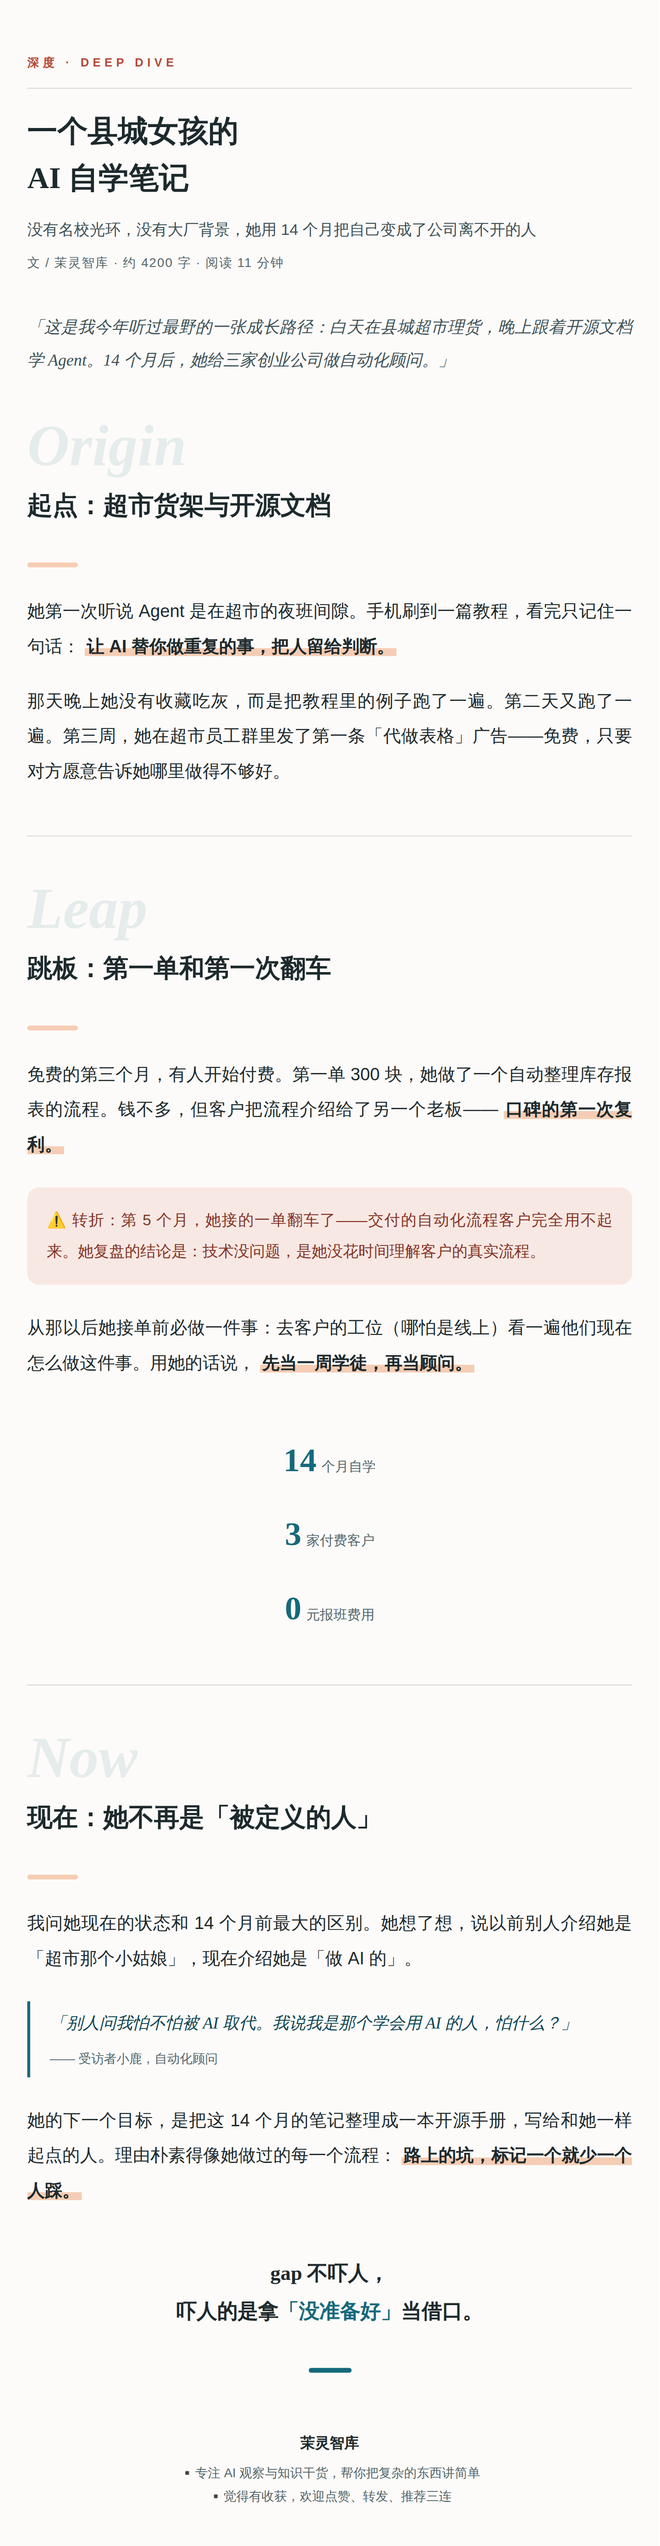
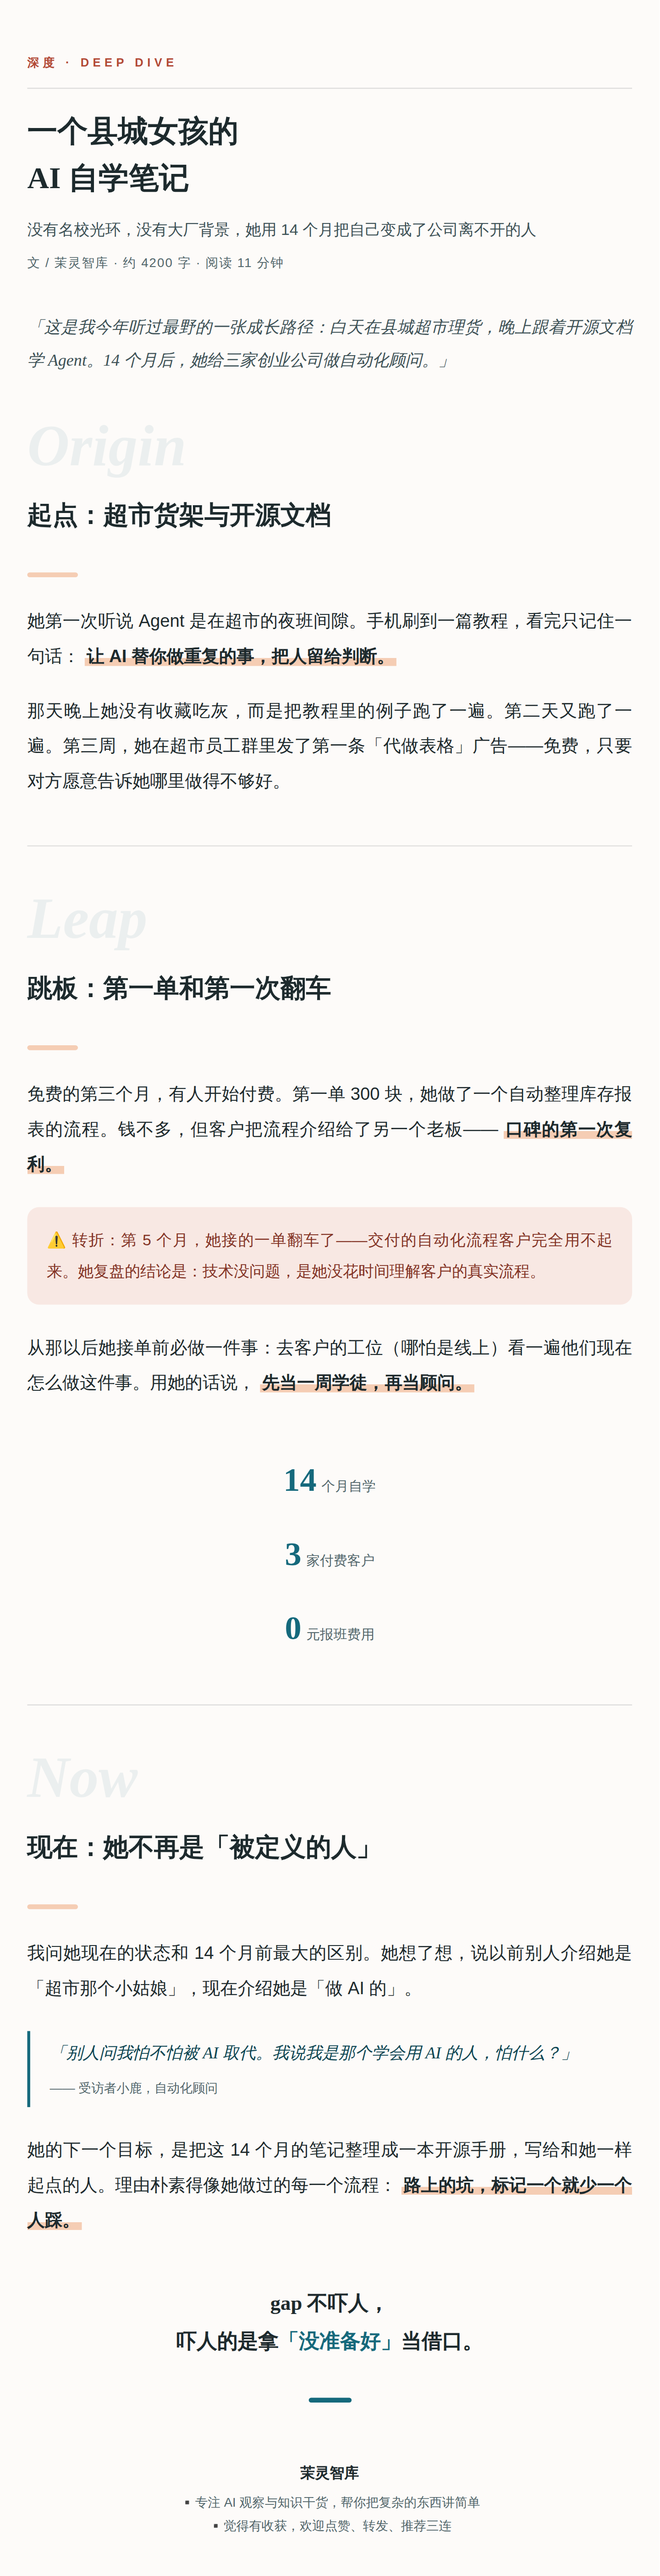
style: 预览页预览区加渐隐遮罩；杂志主题水印间距与透明度微调

diff --git a/docs/gallery/index.html b/docs/gallery/index.html
@@ -39,6 +39,8 @@
   .new{display:inline-block;font-size:10px;padding:1px 8px;border-radius:10px;background:#F8E7EC;color:#B54070;font-weight:700;margin-left:8px;letter-spacing:1px}
   .tmeta{margin-left:auto;font-size:11px;color:var(--ink-3);font-family:monospace}
   iframe{width:100%;height:640px;border:0;background:#fff}
+  .thumb{position:relative}
+  .thumb:after{content:"";position:absolute;left:0;right:0;bottom:0;height:70px;background:linear-gradient(transparent,#FFF 92%);pointer-events:none}
   .card footer{padding:11px 18px 13px;font-size:13px;color:var(--ink-2);line-height:1.7;border-top:1px solid var(--line);background:#FDFBF7}
 
   footer.page{max-width:1240px;margin:0 auto;padding:14px 28px 56px;color:var(--ink-3);font-size:13px;text-align:center;line-height:2}
@@ -66,7 +68,7 @@
       <span class="tname">摸鱼绿</span>
       <span class="tmeta">moyu-green</span>
     </div>
-    <iframe src="./moyu-green.html" loading="lazy" title="摸鱼绿"></iframe>
+    <section class="thumb"><iframe src="./moyu-green.html" loading="lazy" title="摸鱼绿"></iframe></section>
     <footer>杂志卡片式，教程、测评、清单通用默认款。在线预览：<a href="https://88lin.github.io/gzh-design-skill/docs/gallery/moyu-green.html" target="_blank">打开 ↗</a></footer>
   </section>
 
@@ -76,7 +78,7 @@
       <span class="tname">红白色系</span>
       <span class="tmeta">red-white</span>
     </div>
-    <iframe src="./red-white.html" loading="lazy" title="红白色系"></iframe>
+    <section class="thumb"><iframe src="./red-white.html" loading="lazy" title="红白色系"></iframe></section>
     <footer>经典编辑风，深度分析与观点话题。在线预览：<a href="https://88lin.github.io/gzh-design-skill/docs/gallery/red-white.html" target="_blank">打开 ↗</a></footer>
   </section>
 
@@ -86,7 +88,7 @@
       <span class="tname">石墨极简风</span>
       <span class="tmeta">graphite-minimal</span>
     </div>
-    <iframe src="./graphite-minimal.html" loading="lazy" title="石墨极简风"></iframe>
+    <section class="thumb"><iframe src="./graphite-minimal.html" loading="lazy" title="石墨极简风"></iframe></section>
     <footer>全灰阶极简，设计评论与专业观点。在线预览：<a href="https://88lin.github.io/gzh-design-skill/docs/gallery/graphite-minimal.html" target="_blank">打开 ↗</a></footer>
   </section>
 
@@ -96,7 +98,7 @@
       <span class="tname">留白禅意风</span>
       <span class="tmeta">zen-whitespace</span>
     </div>
-    <iframe src="./zen-whitespace.html" loading="lazy" title="留白禅意风"></iframe>
+    <section class="thumb"><iframe src="./zen-whitespace.html" loading="lazy" title="留白禅意风"></iframe></section>
     <footer>呼吸感最强，随笔与慢生活。在线预览：<a href="https://88lin.github.io/gzh-design-skill/docs/gallery/zen-whitespace.html" target="_blank">打开 ↗</a></footer>
   </section>
 
@@ -106,7 +108,7 @@
       <span class="tname">摸鱼票据风</span>
       <span class="tmeta">moyu-ticket</span>
     </div>
-    <iframe src="./moyu-ticket.html" loading="lazy" title="摸鱼票据风"></iframe>
+    <section class="thumb"><iframe src="./moyu-ticket.html" loading="lazy" title="摸鱼票据风"></iframe></section>
     <footer>票据门票隐喻，测评与创意评测。在线预览：<a href="https://88lin.github.io/gzh-design-skill/docs/gallery/moyu-ticket.html" target="_blank">打开 ↗</a></footer>
   </section>
 
@@ -116,7 +118,7 @@
       <span class="tname">橄榄手记</span>
       <span class="tmeta">olive-journal</span>
     </div>
-    <iframe src="./olive-journal.html" loading="lazy" title="橄榄手记"></iframe>
+    <section class="thumb"><iframe src="./olive-journal.html" loading="lazy" title="橄榄手记"></iframe></section>
     <footer>编辑部内刊质感，系统说明文档。在线预览：<a href="https://88lin.github.io/gzh-design-skill/docs/gallery/olive-journal.html" target="_blank">打开 ↗</a></footer>
   </section>
 
@@ -126,7 +128,7 @@
       <span class="tname">克莱因蓝艺术展册</span>
       <span class="tmeta">klein-blue</span>
     </div>
-    <iframe src="./klein-blue.html" loading="lazy" title="克莱因蓝"></iframe>
+    <section class="thumb"><iframe src="./klein-blue.html" loading="lazy" title="克莱因蓝"></iframe></section>
     <footer>高纯度蓝色锚点，艺术评论与品牌叙事。在线预览：<a href="https://88lin.github.io/gzh-design-skill/docs/gallery/klein-blue.html" target="_blank">打开 ↗</a></footer>
   </section>
 
@@ -136,7 +138,7 @@
       <span class="tname">科技钴蓝</span>
       <span class="tmeta">tech-cobalt</span>
     </div>
-    <iframe src="./tech-cobalt.html" loading="lazy" title="科技钴蓝"></iframe>
+    <section class="thumb"><iframe src="./tech-cobalt.html" loading="lazy" title="科技钴蓝"></iframe></section>
     <footer>冷静清晰的工具说明与工作流指南。在线预览：<a href="https://88lin.github.io/gzh-design-skill/docs/gallery/tech-cobalt.html" target="_blank">打开 ↗</a></footer>
   </section>
 
@@ -146,7 +148,7 @@
       <span class="tname serif">奶咖信纸</span><span class="new">NEW</span>
       <span class="tmeta">letter</span>
     </div>
-    <iframe src="./letter.html" loading="lazy" title="奶咖信纸"></iframe>
+    <section class="thumb"><iframe src="./letter.html" loading="lazy" title="奶咖信纸"></iframe></section>
     <footer>奶白信纸底 + 三色装饰条，叙事长文与方法论，无卡片堆砌的一封长信。在线预览：<a href="https://88lin.github.io/gzh-design-skill/docs/gallery/letter.html" target="_blank">打开 ↗</a></footer>
   </section>
 
@@ -156,7 +158,7 @@
       <span class="tname">粉彩便当盒</span><span class="new">NEW</span>
       <span class="tmeta">bento</span>
     </div>
-    <iframe src="./bento.html" loading="lazy" title="紫藤便当盒"></iframe>
+    <section class="thumb"><iframe src="./bento.html" loading="lazy" title="紫藤便当盒"></iframe></section>
     <footer>马卡龙色块卡堆叠 + 等宽眉标，工具测评与干货合集。在线预览：<a href="https://88lin.github.io/gzh-design-skill/docs/gallery/bento.html" target="_blank">打开 ↗</a></footer>
   </section>
 
@@ -166,7 +168,7 @@
       <span class="tname">薄荷对话</span><span class="new">NEW</span>
       <span class="tmeta">chat</span>
     </div>
-    <iframe src="./chat.html" loading="lazy" title="鼠尾草对话"></iframe>
+    <section class="thumb"><iframe src="./chat.html" loading="lazy" title="鼠尾草对话"></iframe></section>
     <footer>左右气泡问答推进，AI 访谈实录与问答教程。在线预览：<a href="https://88lin.github.io/gzh-design-skill/docs/gallery/chat.html" target="_blank">打开 ↗</a></footer>
   </section>
 
@@ -176,7 +178,7 @@
       <span class="tname serif">孔雀蓝杂志</span><span class="new">NEW</span>
       <span class="tmeta">magazine</span>
     </div>
-    <iframe src="./magazine.html" loading="lazy" title="孔雀蓝杂志"></iframe>
+    <section class="thumb"><iframe src="./magazine.html" loading="lazy" title="孔雀蓝杂志"></iframe></section>
     <footer>左对齐特稿排版 + 超大斜体装饰词，人物故事与行业观察。在线预览：<a href="https://88lin.github.io/gzh-design-skill/docs/gallery/magazine.html" target="_blank">打开 ↗</a></footer>
   </section>
 
@@ -186,7 +188,7 @@
       <span class="tname">珊瑚手账</span><span class="new">NEW</span>
       <span class="tmeta">journal</span>
     </div>
-    <iframe src="./journal.html" loading="lazy" title="珊瑚手账"></iframe>
+    <section class="thumb"><iframe src="./journal.html" loading="lazy" title="珊瑚手账"></iframe></section>
     <footer>纸感底 + 胶带批注 + 书卡摘录，读书笔记与随笔。在线预览：<a href="https://88lin.github.io/gzh-design-skill/docs/gallery/journal.html" target="_blank">打开 ↗</a></footer>
   </section>
 
@@ -196,7 +198,7 @@
       <span class="tname">珊瑚日报</span><span class="new">NEW</span>
       <span class="tmeta">daily</span>
     </div>
-    <iframe src="./daily.html" loading="lazy" title="珊瑚日报"></iframe>
+    <section class="thumb"><iframe src="./daily.html" loading="lazy" title="珊瑚日报"></iframe></section>
     <footer>双细线报头 + 红绿编号条目，资讯日报与快讯合集。在线预览：<a href="https://88lin.github.io/gzh-design-skill/docs/gallery/daily.html" target="_blank">打开 ↗</a></footer>
   </section>
 

diff --git a/docs/gallery/magazine.html b/docs/gallery/magazine.html
@@ -25,8 +25,8 @@
 
   <!-- 4. 章节一 -->
   <section style="margin-bottom:48px;">
-    <section style="margin-bottom:4px;overflow:visible;">
-      <span style="display:inline-block;font-family:Georgia,'Songti SC',serif;font-style:italic;font-size:60px;font-weight:bold;color:rgba(21,105,124,0.10);line-height:1;white-space:nowrap;word-break:keep-all;overflow-wrap:normal;"><span leaf="">Origin</span></span>
+    <section style="margin-bottom:14px;overflow:visible;">
+      <span style="display:inline-block;font-family:Georgia,'Songti SC',serif;font-style:italic;font-size:60px;font-weight:bold;color:rgba(21,105,124,0.08);line-height:1;white-space:nowrap;word-break:keep-all;overflow-wrap:normal;"><span leaf="">Origin</span></span>
     </section>
     <section style="margin-bottom:8px;">
       <span style="font-family:Georgia,'Songti SC','Noto Serif SC',serif;font-size:26px;font-weight:900;color:#1D2A2D;"><span leaf="">起点：超市货架与开源文档</span></span>
@@ -48,8 +48,8 @@
 
   <!-- 5. 章节二 -->
   <section style="margin-bottom:48px;">
-    <section style="margin-bottom:4px;overflow:visible;">
-      <span style="display:inline-block;font-family:Georgia,'Songti SC',serif;font-style:italic;font-size:60px;font-weight:bold;color:rgba(21,105,124,0.10);line-height:1;white-space:nowrap;word-break:keep-all;overflow-wrap:normal;"><span leaf="">Leap</span></span>
+    <section style="margin-bottom:14px;overflow:visible;">
+      <span style="display:inline-block;font-family:Georgia,'Songti SC',serif;font-style:italic;font-size:60px;font-weight:bold;color:rgba(21,105,124,0.08);line-height:1;white-space:nowrap;word-break:keep-all;overflow-wrap:normal;"><span leaf="">Leap</span></span>
     </section>
     <section style="margin-bottom:8px;">
       <span style="font-family:Georgia,'Songti SC','Noto Serif SC',serif;font-size:26px;font-weight:900;color:#1D2A2D;"><span leaf="">跳板：第一单和第一次翻车</span></span>
@@ -91,8 +91,8 @@
 
   <!-- 6. 章节三 -->
   <section style="margin-bottom:48px;">
-    <section style="margin-bottom:4px;overflow:visible;">
-      <span style="display:inline-block;font-family:Georgia,'Songti SC',serif;font-style:italic;font-size:60px;font-weight:bold;color:rgba(21,105,124,0.10);line-height:1;white-space:nowrap;word-break:keep-all;overflow-wrap:normal;"><span leaf="">Now</span></span>
+    <section style="margin-bottom:14px;overflow:visible;">
+      <span style="display:inline-block;font-family:Georgia,'Songti SC',serif;font-style:italic;font-size:60px;font-weight:bold;color:rgba(21,105,124,0.08);line-height:1;white-space:nowrap;word-break:keep-all;overflow-wrap:normal;"><span leaf="">Now</span></span>
     </section>
     <section style="margin-bottom:8px;">
       <span style="font-family:Georgia,'Songti SC','Noto Serif SC',serif;font-size:26px;font-weight:900;color:#1D2A2D;"><span leaf="">现在：她不再是「被定义的人」</span></span>
